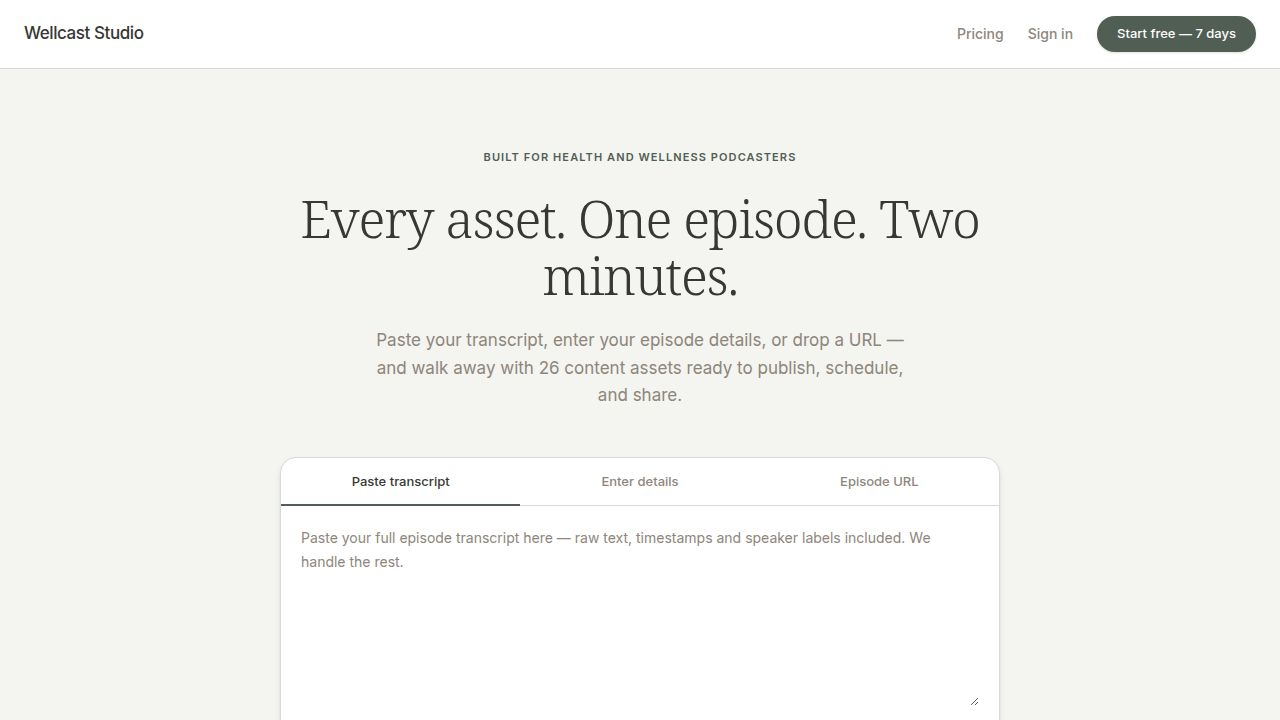
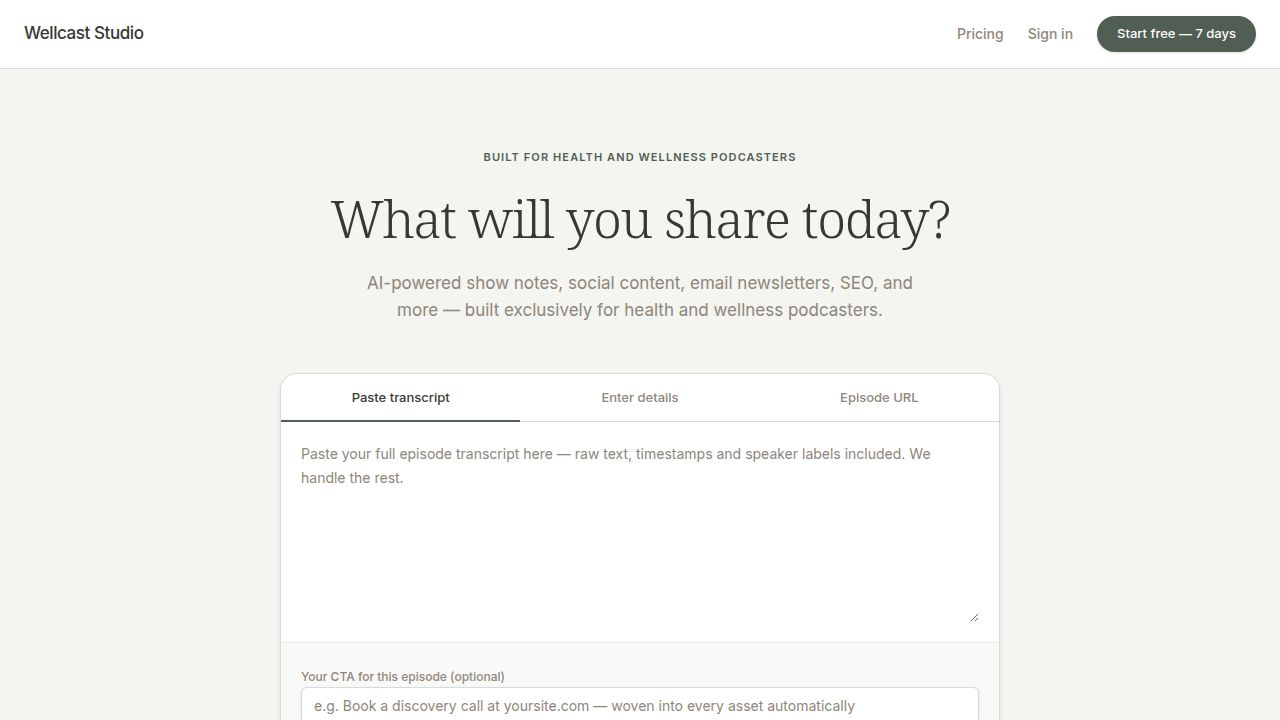
Update website text colors and landing page headlines
Modify text colors in RunDetailPage.tsx to improve readability and update the headline and subheadline in LandingPage.tsx.

Replit-Commit-Author: Agent
Replit-Commit-Session-Id: 3b421d16-2ef5-4a23-86da-520a123d7493
Replit-Commit-Checkpoint-Type: full_checkpoint
Replit-Commit-Event-Id: b8270663-8f9f-4751-9647-2a80a68b5cb3
Replit-Commit-Screenshot-Url: https://storage.googleapis.com/screenshot-production-us-central1/d311cbcd-da81-46cb-996c-f8c90d17babf/3b421d16-2ef5-4a23-86da-520a123d7493/q6uDPoX
Replit-Helium-Checkpoint-Created: true

diff --git a/artifacts/wellcast-studio/src/pages/RunDetailPage.tsx b/artifacts/wellcast-studio/src/pages/RunDetailPage.tsx
@@ -222,7 +222,7 @@ function PublishingTab({ assets }: { assets: Assets }) {
             <span className="text-[10px] font-bold uppercase tracking-wider text-[#526056] mr-2">
               Recommended
             </span>
-            <span className="font-medium text-foreground">{str(seo.recommended_title)}</span>
+            <span className="font-semibold text-[#363633]">{str(seo.recommended_title)}</span>
             {!!seo.recommended_reason && (
               <p className="mt-1 text-[12px] text-muted-foreground">{str(seo.recommended_reason)}</p>
             )}
@@ -236,7 +236,7 @@ function PublishingTab({ assets }: { assets: Assets }) {
                 {str(vr.formula)}
               </span>
               <span className="text-[13px]">{str(vr.title)}</span>
-              {!!vr.why && <p className="text-[12px] text-muted-foreground ml-0 mt-0.5">{str(vr.why)}</p>}
+              {!!vr.why && <p className="text-[12px] text-[#526056] ml-0 mt-0.5">{str(vr.why)}</p>}
             </div>
           );
         })}
@@ -250,7 +250,7 @@ function PublishingTab({ assets }: { assets: Assets }) {
       {/* Show Notes */}
       <AssetSection label="Show Notes" copyText={snCopy}>
         {!!sn.hook_sentence && <p className="font-medium mb-3">{str(sn.hook_sentence)}</p>}
-        {!!sn.full_summary && <p className="text-muted-foreground mb-3">{str(sn.full_summary)}</p>}
+        {!!sn.full_summary && <p className="text-[#363633] mb-3">{str(sn.full_summary)}</p>}
         {arr(sn.what_youll_learn).length > 0 && (
           <div className="mb-3">
             <p className="text-[11px] font-semibold uppercase tracking-wide text-muted-foreground mb-1">
@@ -260,7 +260,7 @@ function PublishingTab({ assets }: { assets: Assets }) {
               {arr(sn.what_youll_learn).map((item, i) => (
                 <li key={i} className="flex gap-2 text-[13px]">
                   <span className="text-[#526056] font-bold shrink-0">•</span>
-                  <span>{str(item)}</span>
+                  <span className="text-[#363633]">{str(item)}</span>
                 </li>
               ))}
             </ul>
@@ -271,13 +271,13 @@ function PublishingTab({ assets }: { assets: Assets }) {
             "{str(sn.pull_quote)}"
           </blockquote>
         )}
-        {!!sn.cta_block && <p className="text-[13px]">{str(sn.cta_block)}</p>}
+        {!!sn.cta_block && <p className="text-[13px] text-[#363633]">{str(sn.cta_block)}</p>}
       </AssetSection>
 
       {/* Blog Skeleton */}
       <AssetSection label="Blog Skeleton" copyText={blogCopy}>
         {!!blog.h1 && <p className="font-semibold text-[15px] mb-1">{str(blog.h1)}</p>}
-        <div className="flex flex-wrap gap-x-4 gap-y-1 text-[12px] text-muted-foreground mb-3">
+        <div className="flex flex-wrap gap-x-4 gap-y-1 text-[12px] text-[#363633] mb-3">
           {!!blog.meta_description && <span><strong>Meta:</strong> {str(blog.meta_description)}</span>}
           {!!blog.target_keyword && <span><strong>Keyword:</strong> {str(blog.target_keyword)}</span>}
           {!!blog.word_count_target && <span><strong>Target:</strong> {str(blog.word_count_target)} words</span>}
@@ -298,7 +298,7 @@ function PublishingTab({ assets }: { assets: Assets }) {
         })}
         {arr(blog.faq).length > 0 && (
           <div className="mt-2 pt-2 border-t border-border/50">
-            <p className="text-[11px] font-bold uppercase tracking-wide text-muted-foreground mb-2">FAQ</p>
+            <p className="text-[11px] font-bold uppercase tracking-wide text-[#363633] mb-2">FAQ</p>
             {arr(blog.faq).map((f, i) => {
               const fr = asR(f);
               return (
@@ -321,7 +321,7 @@ function PublishingTab({ assets }: { assets: Assets }) {
           </div>
         )}
         {!!yt.full_description && (
-          <pre className="whitespace-pre-wrap font-sans text-[13px] text-muted-foreground">
+          <pre className="whitespace-pre-wrap font-sans text-[13px] text-[#363633]">
             {str(yt.full_description)}
           </pre>
         )}
@@ -335,7 +335,7 @@ function PublishingTab({ assets }: { assets: Assets }) {
       {/* Pinterest */}
       <AssetSection label="Pinterest" copyText={pinCopy}>
         {!!pin.pin_title && <p className="font-semibold mb-2">{str(pin.pin_title)}</p>}
-        {!!pin.pin_description && <p className="text-muted-foreground mb-2">{str(pin.pin_description)}</p>}
+        {!!pin.pin_description && <p className="text-[#363633] mb-2">{str(pin.pin_description)}</p>}
         {arr(pin.keywords).length > 0 && (
           <p className="text-[12px] text-muted-foreground">
             <strong>Keywords:</strong> {arr(pin.keywords).map(str).join(", ")}
@@ -574,7 +574,7 @@ function SocialTab({ assets }: { assets: Assets }) {
                 </span>
               </div>
               <p className="font-medium text-[13px]">{str(sr.headline)}</p>
-              <p className="text-[13px] text-muted-foreground mt-0.5">{str(sr.body)}</p>
+              <p className="text-[13px] text-[#363633] mt-0.5">{str(sr.body)}</p>
               {!!sr.design_note && (
                 <p className="text-[11px] italic text-muted-foreground/70 mt-1">
                   Design: {str(sr.design_note)}
@@ -816,7 +816,7 @@ function StrategyTab({ assets }: { assets: Assets }) {
                 {arr(w1[day]).map((a, i) => (
                   <li key={i} className="flex gap-2 text-[13px]">
                     <span className="text-[#526056] font-bold shrink-0">•</span>
-                    <span>{str(a)}</span>
+                    <span className="text-[#363633]">{str(a)}</span>
                   </li>
                 ))}
               </ul>
@@ -836,7 +836,7 @@ function StrategyTab({ assets }: { assets: Assets }) {
                 {arr(cal[key]).map((a, i) => (
                   <li key={i} className="flex gap-2 text-[13px]">
                     <span className="text-[#526056] font-bold shrink-0">•</span>
-                    <span>{str(a)}</span>
+                    <span className="text-[#363633]">{str(a)}</span>
                   </li>
                 ))}
               </ul>
@@ -970,7 +970,7 @@ function IntelligenceTab({ assets }: { assets: Assets }) {
           <div className="flex items-center gap-3 mb-3">
             <SignalPill signal={str(cs.overall_signal)} />
             {!!cs.overall_summary && (
-              <p className="text-[13px] text-muted-foreground">{str(cs.overall_summary)}</p>
+              <p className="text-[13px] text-[#363633]">{str(cs.overall_summary)}</p>
             )}
           </div>
         )}
@@ -1180,7 +1180,7 @@ export default function RunDetailPage() {
             >
               <ArrowLeft className="h-3 w-3" /> Dashboard
             </Link>
-            <p className="text-[13px] font-semibold text-foreground leading-snug line-clamp-2 mb-2">
+            <p className="text-[13px] font-semibold text-[#363633] leading-snug line-clamp-2 mb-2">
               {runData.episode_title}
             </p>
             <span className="inline-flex items-center text-[10px] font-medium bg-green-50 text-green-700 px-1.5 py-0.5 rounded-full border border-green-200">

diff --git a/artifacts/wellcast-studio/src/pages/LandingPage.tsx b/artifacts/wellcast-studio/src/pages/LandingPage.tsx
@@ -36,10 +36,10 @@ export default function LandingPage() {
             Built for health and wellness podcasters
           </span>
           <h1 className="font-serif font-light text-[40px] md:text-[52px] text-foreground leading-[1.1] mb-6 tracking-tight">
-            Every asset. One episode. Two minutes.
+            What will you share today?
           </h1>
           <p className="text-[17px] text-muted-foreground max-w-[560px] leading-[1.6]">
-            Paste your transcript, enter your episode details, or drop a URL — and walk away with 26 content assets ready to publish, schedule, and share.
+            AI-powered show notes, social content, email newsletters, SEO, and more — built exclusively for health and wellness podcasters.
           </p>
         </section>
 